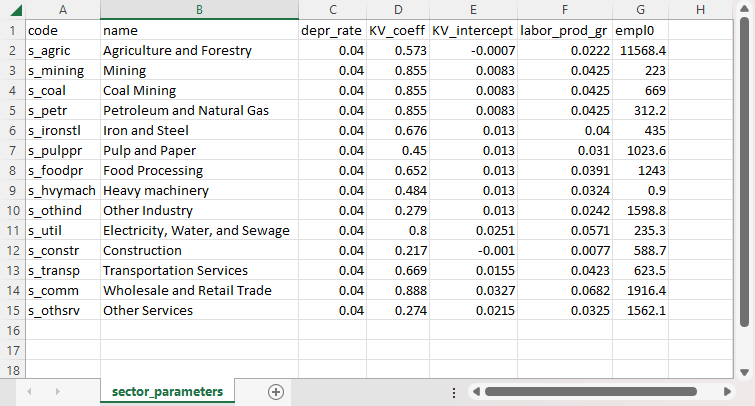
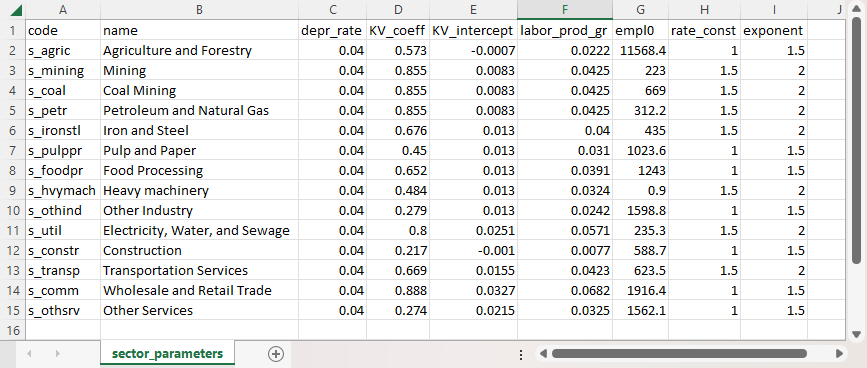
Documented the revised technical coeff calculation

Changed region(s): [[0.0, 0.0, 1.0, 1.0]]

diff --git a/docs/src/params.md b/docs/src/params.md
@@ -47,13 +47,13 @@ The first two columns are the sector codes and sector names. These should be in 
 
 In addition to the sector codes and names, this file contains a single required parameter for each sector, the depreciation rate. Where available, this can be calculated from national statistics. Otherwise, the `delta` parameter reported for the whole economy in the [Penn World Table](https://www.rug.nl/ggdc/productivity/pwt/) can be applied to each sector.
 
-The file also includes several optional parameters, shown in brackets, which determine [labor productivity growth](@ref dynamics-labor-prod) at sector level. The labor productivity parameters might be assumed constant, estimated from historical data, or drawn from published studies.
+The file also includes several optional parameters, shown in brackets, which determine [labor productivity growth](@ref dynamics-labor-prod) and changes in [intermediate demand coefficients](@ref dynamics-intermed-dmd-coeff) at sector level. The productivity parameters might be assumed to be the same across sectors, estimated from historical data, or drawn from published studies. If values are the same across sectors, then they can be specified as default values in the [configuration file](@ref config) and the corresponding columns can be omitted from this file.
 
-| `code`      | `name`       | `depr_rate` | `[KV_coeff]` | `[KV_intercept]` |  `[labor_prod_gr`] |   `[empl0]` |
-|:------------|:-------------|------------:|-------------:|-----------------:|-------------------:|------------:|
-| CODE1       | Name 1       |        dr_1 |    \[kvc_1\] |        \[kvi_1\] |         \[lpgr_1\] | \[empl0_1\] |
-| CODE2       | Name 2       |        dr_2 |    \[kvc_2\] |        \[kvi_2\] |         \[lpgr_2\] | \[empl0_2\] |
-| ...         | ...          |         ... |          ... |              ... |                ... |         ... |
+| `code`      | `name`       | `depr_rate` | `[KV_coeff]` | `[KV_intercept]` |  `[labor_prod_gr]` |   `[empl0]` | `[rate_const]` | `[exponent]` |
+|:------------|:-------------|------------:|-------------:|-----------------:|-------------------:|------------:|---------------:|-------------:|
+| CODE1       | Name 1       |        dr_1 |    \[kvc_1\] |        \[kvi_1\] |         \[lpgr_1\] | \[empl0_1\] |       \[rc_1\] |    \[exp_1\] |
+| CODE2       | Name 2       |        dr_2 |    \[kvc_2\] |        \[kvi_2\] |         \[lpgr_2\] | \[empl0_2\] |       \[rc_2\] |    \[exp_2\] |
+| ...         | ...          |         ... |          ... |              ... |                ... |         ... |            ... |          ... |
 
 The corresponding [variables](@ref exog-param-vars) for sector ``i`` are:
   * `depr_rate` : ``\underline{\delta}_i``
@@ -61,6 +61,8 @@ The corresponding [variables](@ref exog-param-vars) for sector ``i`` are:
   * `KV_intercept` : ``\underline{\beta}^\text{KV}_i``
   * `empl0` : ``\underline{L}_{i0}``
   * `labor_prod_gr` : ``\underline{\beta}^\text{KV}_i`` (with ``\underline{\alpha}^\text{KV}_i = 0``)
+  * `rate_const` : ``\underline{a}_i`` (an optional parameter)
+  * `exponent` : ``\underline{\vartheta}_i`` (an optional parameter)
 
 Here is the example from the Freedonia sample model:
 ![Freedonia sector_parameters file](assets/images/sector_parameters.png)

diff --git a/docs/src/config.md b/docs/src/config.md
@@ -275,17 +275,22 @@ wage-fcn:
 Sector values will be used if they are specified, otherwise the time series values will be used. If time series values are not specified, then the default value will be applied.
 
 ### [Endogenous change in intermediate demand coefficients](@id config-intermed-dmd-change)
-The next block is optional. If it is present, it sets a rate constant for endogenously determining [intermediate demand coefficients](@ref dynamics-intermed-dmd-coeff).
+The next block is optional. If it is present, it sets parameters for endogenously determining [intermediate demand coefficients](@ref dynamics-intermed-dmd-coeff). These parameters can optionally be set by sector in the [sector parameters file](@ref params-sectors)
 
-Note that if the `rate_constant` parameter is set too high, then it can generate unreasonably large rates of change in technical coefficients and can even create model instabilities. It is good practice to check [the `diagnostics` folder](@ref model-outputs-diagnostics) for annual files labeled `demand_coefficients_[year].csv` to see whether the values are reasonable.
+Note that the calculation can generate unreasonably large rates of change in technical coefficients and can even create model instabilities. It is good practice to check [the `diagnostics` folder](@ref model-outputs-diagnostics) for annual files labeled `demand_coefficients_[year].csv` to see whether the values are reasonable. If they are not, then adjust the parameters, either here or in the [sector parameters file](@ref params-sectors).
 ```yaml
 #---------------------------------------------------------------------------
 # Parameter for rate of change in technical parameters
 #---------------------------------------------------------------------------
-# Uncomment rate_constant line below to endogenize changes in the scaled Use matrix
 tech-param-change:
+    # Flag to say whether to calculate changing technical parameters
+    calculate: false
+    # Flag for whether to use sector parameters
+    use_sector_params_if_available: true
     # Rate constant: Note that if this is too large then it can create instabilities
-    # rate_constant: 0.1 # 1/year
+    rate_constant_default: 1.5 # 1/year
+    # Exponent in the technical change function
+    exponent_default: 2.0
 ```
 
 ### [Long-run demand elasticities](@id config-longrun-demand-elast)

diff --git a/docs/src/dynamics.md b/docs/src/dynamics.md
@@ -136,11 +136,11 @@ With the above expressions, the growth rate of the wage share can be calculated,
 ## [Intermediate demand coefficients](@id dynamics-intermed-dmd-coeff)
 By default, intermediate demand coefficients are kept at their initial values: ``\overline{D}_{ki} = \underline{D}^\text{init}_{ki}``. However, optionally, they can be endogenized through a cost share-induced technological change mechanism[^3]. The growth rates of the coefficients are calculated as
 ```math
-\hat{\overline{D}}_{ki} = \underline{a}\left(\underline{D}^\text{init}_{ki} - \sqrt{\frac{\sum_{l=1}^{n_p} \underline{D}^{\text{init}2}_{li}}{\sum_{l=1}^{n_p} \alpha^2_{li}}}\alpha_{ki}\right),
+\hat{\overline{D}}_{ki} = \underline{a}_i\left[\underline{D}^{\text{init}\,\underline{\vartheta}_i - 1}_{ki} - \left(\frac{\sum_{l=1}^{n_p} \underline{D}^{\text{init}\,\underline{\vartheta}_i}_{li}}{\sum_{l=1}^{n_p} \alpha^{\underline{\vartheta}_i}_{li}}\right)^{\frac{\underline{\vartheta}_i-1}{\underline{\vartheta}_i}}\alpha_{ki}^{\underline{\vartheta}_i - 1}\right],
 ```
-where ``\underline{a}`` is a rate constant, which is specified in the [configuration file](@ref config-intermed-dmd-change), and the ``\alpha_{ki}`` are cost shares, which are calculated consistent with the calculation of [prices](@ref dynamics-prices).
+where ``\underline{a}_i`` is the rate constant for sector ``i`` and ``\underline{\vartheta}_i`` is the exponent. These are specified either in the [configuration file](@ref config-intermed-dmd-change) or in the [sector parameters file](@ref params-sectors). The ``\alpha_{ki}`` are cost shares, which are calculated consistent with the calculation of [prices](@ref dynamics-prices).
 
-In the first time step, ``\alpha_{ki} = \underline{D}^\text{init}_{ki}``, so the the ratio under the square root starts out equal to one, and the initial growth rates are ``\hat{\overline{D}}_{ki} = 0``.
+In the first time step, ``\alpha_{ki} = \underline{D}^\text{init}_{ki}``, so the the ratio in parentheses starts out equal to one, and the initial growth rates are ``\hat{\overline{D}}_{ki} = 0``.
 
 [^3]: The equation shown here is a special case of a more general model that is presented in [_A classical-evolutionary model of technological change_](https://doi.org/10.1007/s00191-022-00792-5) by Eric Kemp-Benedict.
 

diff --git a/docs/src/variables.md b/docs/src/variables.md
@@ -132,8 +132,9 @@ The following are optional exogenous parameters:
 
 | Symbol                          | Definition                                                                                                                        |
 |:--------------------------------|:----------------------------------------------------------------------------------------------------------------------------------|
-| ``\underline{I}_\text{en}``   | Energy sector investment, retrieved from LEAP                                                             |
+| ``\underline{I}_\text{en}``     | Energy sector investment, retrieved from LEAP                                                             |
 | ``\underline{I}_\text{exog}``   | Other exogenous investment, not associated with a sector (default is 0.0)                                             |
 | ``\underline{z}_i^\text{exog}`` | Exogenously specified potential output (default is that Macro calculates potential output)                                        |
 | ``\underline{u}_i^\text{max}``  | In the [linear goal program](@ref lgp), the maximum capacity utilization (default is 1.0)                                         |
-| ``\underline{a}``               | Rate constant for endogenous intermediate demand coefficients (default is ``\overline{D}_{ki} = \underline{D}^\text{init}_{ki}``) |
+| ``\underline{a}_i``             | Rate constant for endogenous intermediate demand coefficients    |
+| ``\underline{\vartheta}_i``     | Exponent for endogenous intermediate demand coefficients         |
